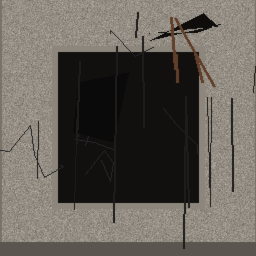
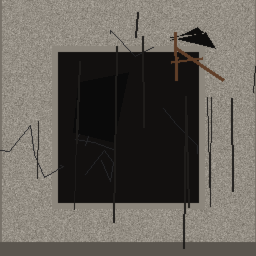
Billboard faces corrected (yaw mapping verified from renders); smaller facade damage holes

Changed region(s): [[0.5938, 0.0312, 0.875, 0.3438]]

diff --git a/native3d/tools/gen_env_textures.py b/native3d/tools/gen_env_textures.py
@@ -95,7 +95,7 @@ def facade_cell(path, seed, style):
     # big damage hole for style 3
     if style == 3 and rnd.random() < 0.6:
         cx, cy = rnd.randrange(40, 200), rnd.randrange(40, 180)
-        pts = [(cx + rnd.randrange(-45, 45), cy + rnd.randrange(-35, 35)) for _ in range(7)]
+        pts = [(cx + rnd.randrange(-24, 24), cy + rnd.randrange(-18, 18)) for _ in range(7)]
         d.polygon(pts, fill=(14, 13, 12, 255))
         for _ in range(4):  # exposed rebar
             d.line([(cx + rnd.randrange(-30, 30), cy + rnd.randrange(-25, 25)),
